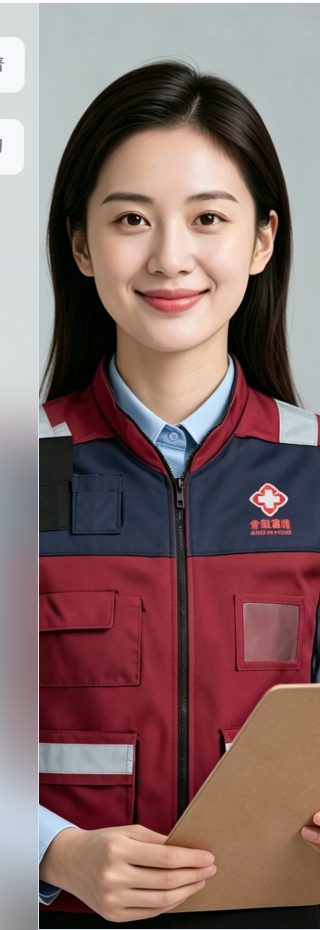
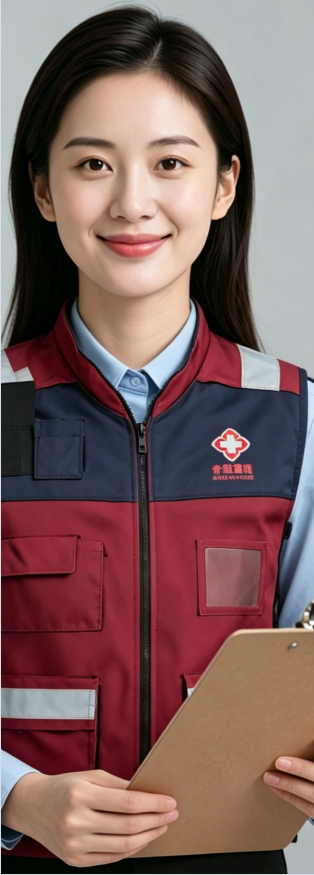
WANG-6: 修复第七轮E2E视觉问题 - 卡片宽度与图片完整显示、Logo完整、AI导师照片尺寸、导航箭头移至内容区外侧

diff --git a/frontend/src/pages/KnowledgePage.css b/frontend/src/pages/KnowledgePage.css
@@ -13,7 +13,7 @@
 }
 
 .ai-tutor-sidebar {
-  width: 180px;
+  width: 200px;
   flex-shrink: 0;
   display: flex;
   flex-direction: column;
@@ -49,19 +49,18 @@
 
 .tutor-image-wrapper {
   position: relative;
-  flex: 1;
   background: #ffffff;
   border-radius: 12px;
-  overflow: hidden;
+  padding: 10px;
   box-shadow: 0 2px 8px rgba(0, 0, 0, 0.08);
-  min-height: 500px;
 }
 
 .tutor-image {
   width: 100%;
-  height: 100%;
-  object-fit: cover;
+  height: auto;
+  object-fit: contain;
   display: block;
+  border-radius: 8px;
 }
 
 .tutor-top-controls {
@@ -198,18 +197,18 @@
   background: #ffffff;
   border: 1px solid #e0e6ec;
   border-radius: 10px;
-  padding: 24px 50px;
-  display: flex;
-  align-items: flex-start;
-  gap: 16px;
+  padding: 24px 56px;
   box-shadow: 0 2px 8px rgba(0, 0, 0, 0.06);
   min-height: 400px;
   position: relative;
 }
 
 .nav-arrow {
-  width: 44px;
-  height: 44px;
+  position: absolute;
+  top: 50%;
+  transform: translateY(-50%);
+  width: 46px;
+  height: 46px;
   border: 2px solid #4A90D9;
   border-radius: 50%;
   background: #ffffff;
@@ -220,7 +219,16 @@
   justify-content: center;
   flex-shrink: 0;
   transition: all 0.2s;
-  margin-top: 40px;
+  box-shadow: 0 0 14px rgba(74, 144, 217, 0.4);
+  z-index: 2;
+}
+
+.nav-arrow.left-arrow {
+  left: -23px;
+}
+
+.nav-arrow.right-arrow {
+  right: -23px;
 }
 
 .nav-arrow:hover:not(:disabled) {

diff --git a/frontend/src/pages/HomePage.css b/frontend/src/pages/HomePage.css
@@ -31,15 +31,14 @@
 
 .module-grid {
   display: grid;
-  grid-template-columns: repeat(2, 1fr);
-  gap: 50px;
-  max-width: 1000px;
+  grid-template-columns: repeat(2, minmax(420px, 480px));
+  gap: 56px;
+  max-width: 1016px;
 }
 
 .module-card {
   cursor: pointer;
   transition: transform 0.2s;
-  min-height: 260px;
 }
 
 .module-card:hover {
@@ -48,17 +47,17 @@
 
 .card-image {
   width: 100%;
-  height: 200px;
+  aspect-ratio: 492 / 260;
   overflow: hidden;
   border-radius: 8px;
   background: #d0d5db;
+  box-shadow: 0 2px 6px rgba(0, 0, 0, 0.12);
 }
 
 .card-image img {
   width: 100%;
   height: 100%;
   object-fit: cover;
-  object-position: center top;
   display: block;
 }
 

diff --git a/frontend/src/pages/CaseStudyPage.css b/frontend/src/pages/CaseStudyPage.css
@@ -31,8 +31,8 @@
 
 .module-grid {
   display: grid;
-  grid-template-columns: repeat(3, 1fr);
-  gap: 25px 30px;
+  grid-template-columns: repeat(3, minmax(320px, 400px));
+  gap: 30px;
   max-width: 1260px;
 }
 
@@ -43,7 +43,6 @@
 .module-card {
   cursor: pointer;
   transition: transform 0.2s;
-  min-height: 240px;
 }
 
 .module-card:hover {
@@ -52,17 +51,17 @@
 
 .card-image {
   width: 100%;
-  height: 180px;
+  aspect-ratio: 492 / 260;
   overflow: hidden;
   border-radius: 8px;
   background: #d0d5db;
+  box-shadow: 0 2px 6px rgba(0, 0, 0, 0.12);
 }
 
 .card-image img {
   width: 100%;
   height: 100%;
   object-fit: cover;
-  object-position: center top;
   display: block;
 }
 

diff --git a/frontend/src/components/Header.tsx b/frontend/src/components/Header.tsx
@@ -6,6 +6,7 @@ export default function Header() {
       <div className="header-left">
         <div className="logo-section">
           <img src="/images/wmu-logo.png" alt="温州医科大学" className="logo" />
+          <div className="header-divider"></div>
           <div className="title-section">
             <h1 className="main-title">AI食品致病性微生物污染事件应急与处置</h1>
             <p className="sub-title">

diff --git a/frontend/src/components/Header.css b/frontend/src/components/Header.css
@@ -20,8 +20,16 @@
 }
 
 .logo {
-  height: 50px;
+  height: 48px;
   width: auto;
+  flex-shrink: 0;
+}
+
+.header-divider {
+  width: 1px;
+  height: 44px;
+  background: #c9ced4;
+  flex-shrink: 0;
 }
 
 .title-section {
